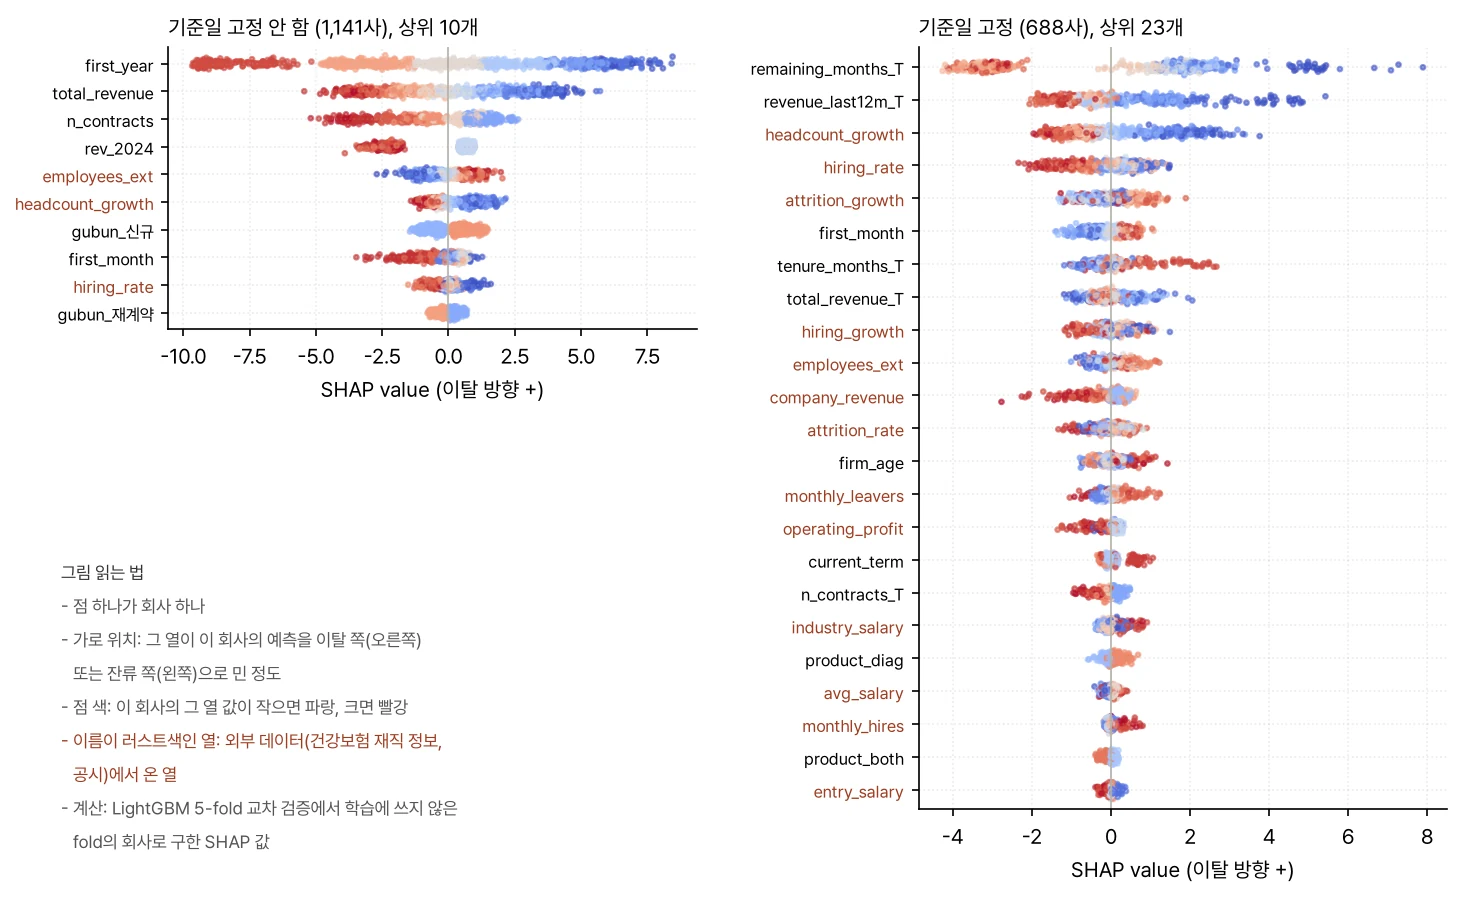
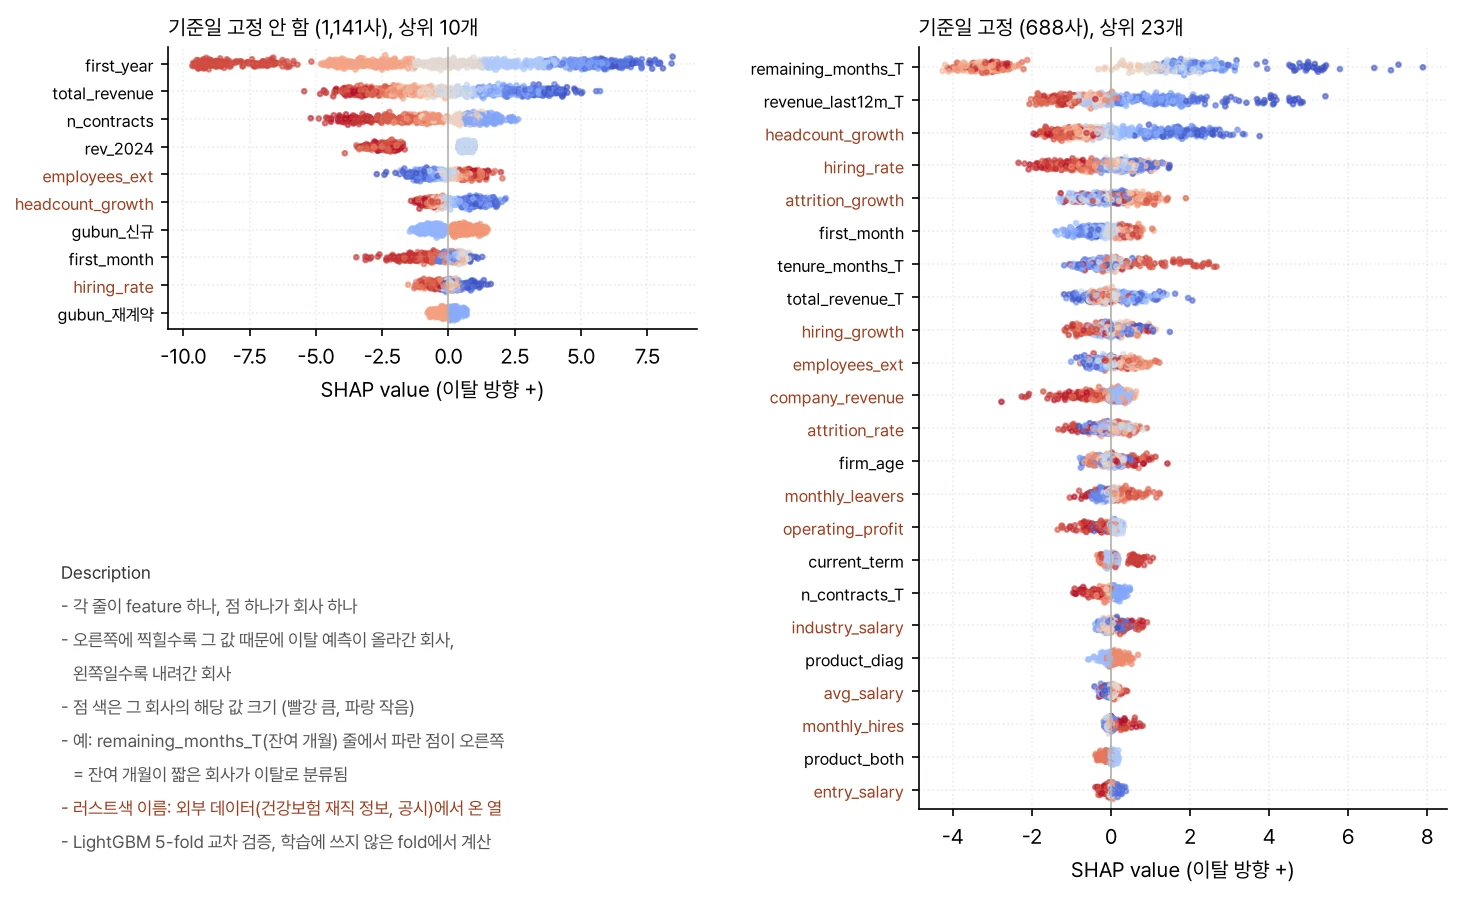
churn: fig5b 안내문 수정

Changed region(s): [[0.0308, 0.6243, 0.3388, 0.9677]]

diff --git a/churn-prediction-b2b-ats/scripts/08_site_figures.py b/churn-prediction-b2b-ats/scripts/08_site_figures.py
@@ -180,15 +180,15 @@ gs = fig.add_gridspec(2, 2, height_ratios=[10, top2 - 10], wspace=0.42, hspace=0
 beeswarm(fig.add_subplot(gs[0, 0]), "v1", "기준일 고정 안 함 (1,141사), 상위 10개", tr, 10)
 beeswarm(fig.add_subplot(gs[:, 1]), "v2", f"기준일 고정 (688사), 상위 {top2}개", v2, top2)
 guide = [
-    ("그림 읽는 법", "#333"),
-    ("- 점 하나가 회사 하나", "#555"),
-    ("- 가로 위치: 그 열이 이 회사의 예측을 이탈 쪽(오른쪽)", "#555"),
-    ("   또는 잔류 쪽(왼쪽)으로 민 정도", "#555"),
-    ("- 점 색: 이 회사의 그 열 값이 작으면 파랑, 크면 빨강", "#555"),
-    ("- 이름이 러스트색인 열: 외부 데이터(건강보험 재직 정보,", ORANGE),
-    ("   공시)에서 온 열", ORANGE),
-    ("- 계산: LightGBM 5-fold 교차 검증에서 학습에 쓰지 않은", "#555"),
-    ("   fold의 회사로 구한 SHAP 값", "#555"),
+    ("Description", "#333"),
+    ("- 각 줄이 feature 하나, 점 하나가 회사 하나", "#555"),
+    ("- 오른쪽에 찍힐수록 그 값 때문에 이탈 예측이 올라간 회사,", "#555"),
+    ("   왼쪽일수록 내려간 회사", "#555"),
+    ("- 점 색은 그 회사의 해당 값 크기 (빨강 큼, 파랑 작음)", "#555"),
+    ("- 예: remaining_months_T(잔여 개월) 줄에서 파란 점이 오른쪽", "#555"),
+    ("   = 잔여 개월이 짧은 회사가 이탈로 분류됨", "#555"),
+    ("- 러스트색 이름: 외부 데이터(건강보험 재직 정보, 공시)에서 온 열", ORANGE),
+    ("- LightGBM 5-fold 교차 검증, 학습에 쓰지 않은 fold에서 계산", "#555"),
 ]
 for k, (line, col) in enumerate(guide):
     fig.text(0.06, 0.36 - k * 0.034, line, fontsize=8.5, color=col, va="top")
